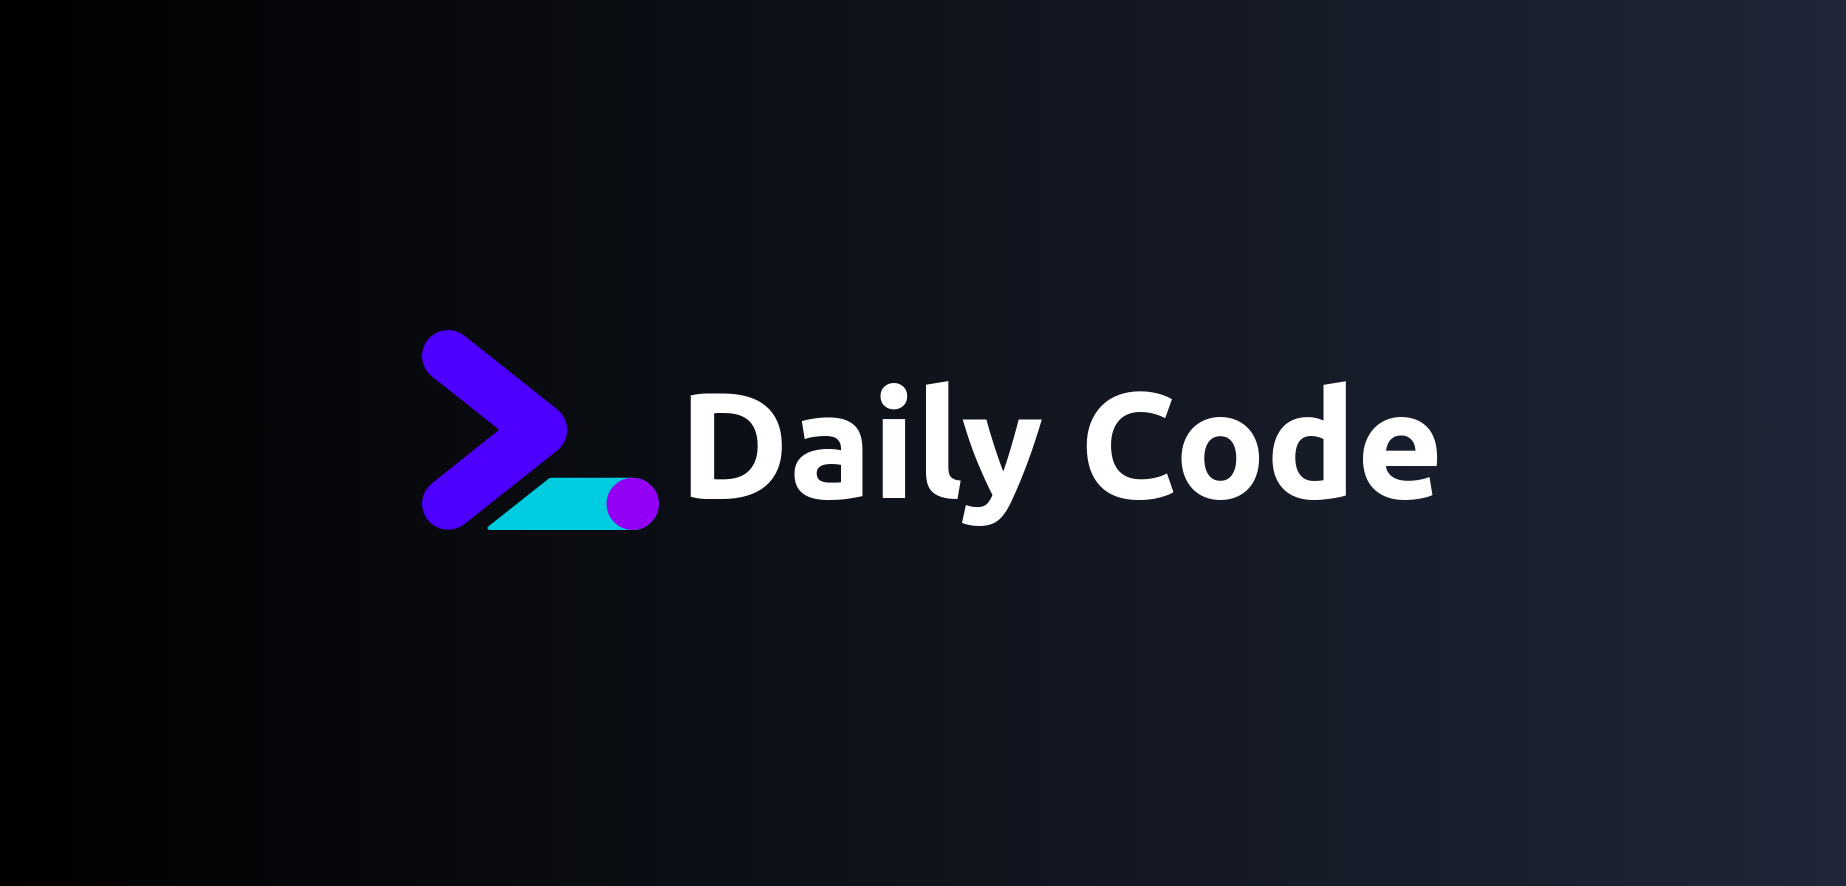
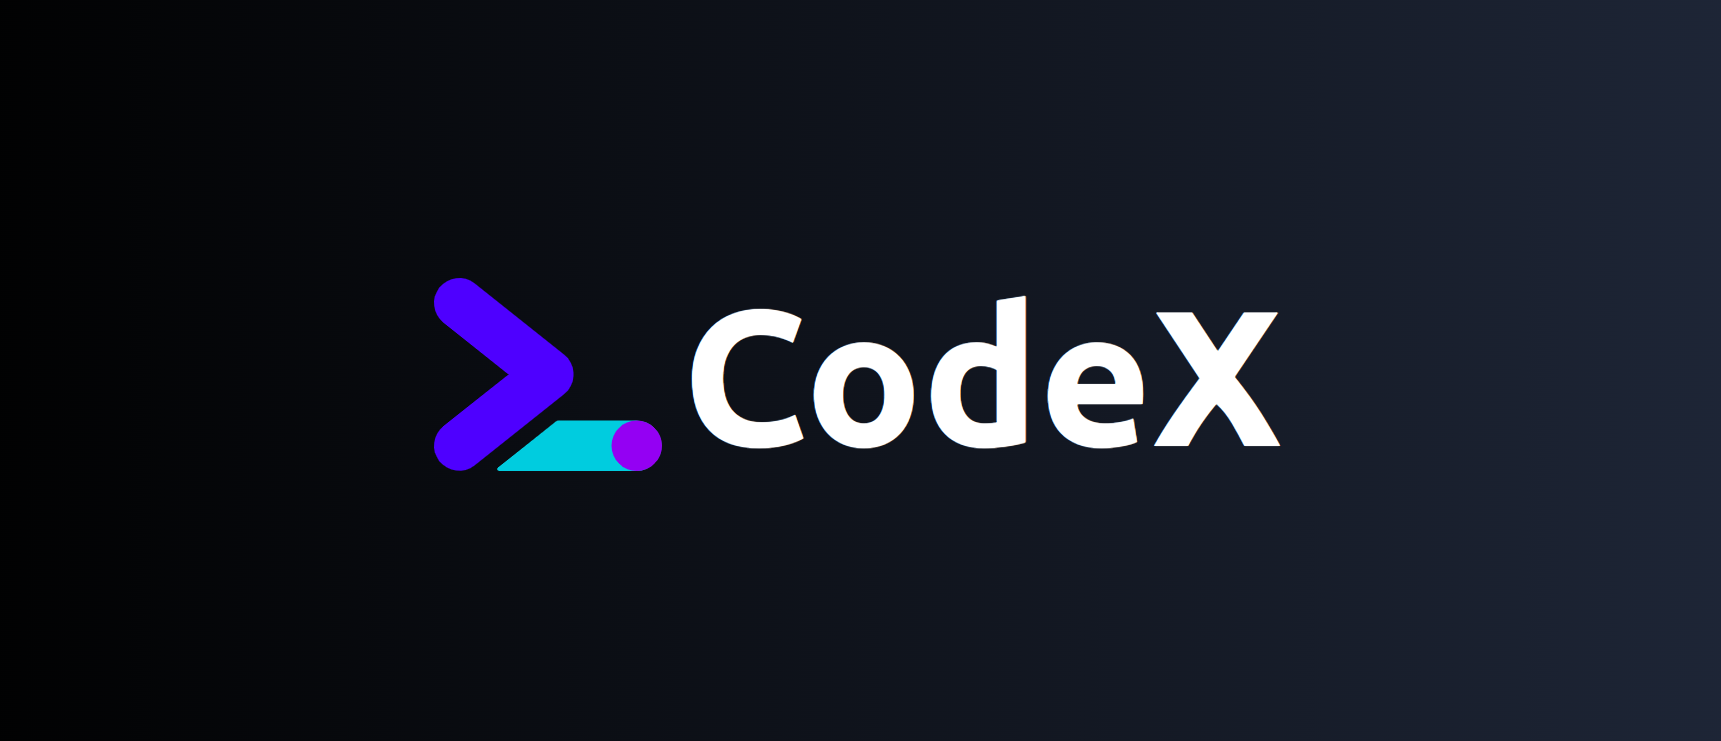
feat: rebranding

Changed region(s): [[0.2156, 0.3725, 0.8007, 0.6518]]

diff --git a/client/src/pages/AboutPage.tsx b/client/src/pages/AboutPage.tsx
@@ -3,22 +3,22 @@ function AboutPage() {
     <div className="h-[92vh]  w-screen bg-gradient-to-r from-black to-gray-800 text-white">
       <div className="p-8 mx-[20vh]">
         <h1 className="text-4xl font-bold mb-4">About Us</h1>
-        <p>Welcome to DailyCode - Your Daily Dose of Coding Challenges!</p>
+        <p>Welcome to CodeX - Your Daily Dose of Coding Challenges!</p>
         <p>
-          At DailyCode, we believe in the power of consistent practice to sharpen your coding skills
+          At CodeX, we believe in the power of consistent practice to sharpen your coding skills
           and prepare you for the challenges of the tech world. Our platform is dedicated to
           providing a daily stream of coding and algorithmic problems designed to enhance your
           problem-solving abilities and boost your confidence in tackling real-world coding
           scenarios.
         </p>
 
-        <h2 className="text-2xl font-bold my-6">Why DailyCode?</h2>
+        <h2 className="text-2xl font-bold my-6">Why CodeX?</h2>
 
         <p>
-          DailyCode was founded with the vision of making coding practice a daily habit. We
+          CodeX was founded with the vision of making coding practice a daily habit. We
           understand the importance of consistent learning and the impact it has on your coding
           proficiency. Whether you are gearing up for a technical interview, preparing for coding
-          competitions, or simply honing your skills, DailyCode is here to support your coding
+          competitions, or simply honing your skills, CodeX is here to support your coding
           journey.
         </p>
         <p>Join us in this coding adventure, and let us make coding a part of your daily routine!</p>
@@ -26,7 +26,7 @@ function AboutPage() {
         <p className="mt-6">
           Happy Coding!
           <br />
-          The DailyCode Team
+          The CodeX Team
         </p>
       </div>
     </div>

diff --git a/client/src/pages/LandingPage.tsx b/client/src/pages/LandingPage.tsx
@@ -4,9 +4,9 @@ const LandingPage = () => {
   return (
     <div className="h-[92vh] bg-gradient-to-r from-black to-gray-800 text-white">
       <div className="p-8 mx-[20vh]">
-        <h1 className="text-4xl font-bold mb-4">Welcome to Daily code!</h1>
+        <h1 className="text-4xl font-bold mb-4">Welcome to CodeX!</h1>
         <p className="text-lg mb-6">
-          At DailyCode, we believe in the power of consistent practice to sharpen your coding skills
+          At CodeX, we believe in the power of consistent practice to sharpen your coding skills
           and prepare you for the challenges of the tech world. Our platform is dedicated to
           providing a daily stream of coding and algorithmic problems designed to enhance your
           problem-solving abilities and boost your confidence in tackling real-world coding

diff --git a/client/src/components/Navbar.tsx b/client/src/components/Navbar.tsx
@@ -19,8 +19,8 @@ function Navbar() {
   return (
     <div className="h-[8vh] w-screen bg-gray-900 p-4 flex items-center justify-between">
       <Link to="/" className="flex items-center">
-        <img src={appLogo} alt="dailycode-app-logo" className="h-8 px-5" />
-        <span className="text-xl text-white font-semibold">Daily code</span>
+        <img src={appLogo} alt="codex-app-logo" className="h-8 px-5" />
+        <span className="text-xl text-white font-semibold">CodeX</span>
       </Link>
 
       <div className="flex items-center justify-between">

diff --git a/client/src/components/SignIn.tsx b/client/src/components/SignIn.tsx
@@ -62,7 +62,7 @@ function SignIn() {
           <div className="mb-5 float-left text-left">
             <div className="mb-5">
               <h2 className="text-2xl font-semibold">Login</h2>
-              <span className="text-white pr-2">New to dailycode?</span>
+              <span className="text-white pr-2">New to CodeX?</span>
               <Link
                 to={'/signup'}
                 className="text-blue-600 hover:text-blue-500 hover:cursor-pointer"

diff --git a/client/index.html b/client/index.html
@@ -4,7 +4,7 @@
     <meta charset="UTF-8" />
     <link rel="icon" type="image/svg+xml" href="/app-logo.svg" />
     <meta name="viewport" content="width=device-width, initial-scale=1.0" />
-    <title>Daily Code</title>
+    <title>CodeX</title>
   </head>
   <body>
     <div id="root"></div>

diff --git a/Readme.MD b/Readme.MD
@@ -1,4 +1,4 @@
-<img src="./client/src/assets/app-bg.png" alt="DailyCode Logo">
+<img src="./client/src/assets/app-bg.png" alt="CodeX Logo">
 
 <p align="center" style="margin-top: 20px">
   <p align="center">
@@ -11,7 +11,7 @@
 ## About this project
 
 
-Introducing DailyCode, a comprehensive and dynamic platform meticulously crafted to replicate the essence of Leetcode. 
+Introducing CodeX, a comprehensive and dynamic platform meticulously crafted to replicate the essence of Leetcode. 
 
 Leveraging a robust tech stack comprising ReactJs, Tailwind, Nodejs, MongoDB, Typescript, and Prisma ORM, this full-stack endeavor is poised to provide an immersive coding experience.
 
@@ -23,5 +23,5 @@ Leveraging a robust tech stack comprising ReactJs, Tailwind, Nodejs, MongoDB, Ty
 - [MongoDB](https://www.mongodb.com/) - Database
 - [Prisma](https://www.prisma.io/) - ORM
 - [Tailwind](https://tailwindcss.com/) - CSS
-- [Docker](https://docker.com/)
+- [Docker](https://docker.com/) - Containerization
 - [Vercel](https://vercel.com) - Hosting
